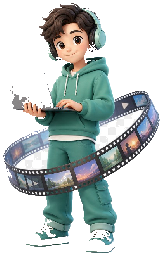
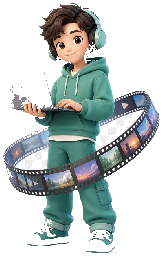
fix(mp+web): 四身份主题色统一 + 欢迎页卡通女孩图标本地打包
Web 首页/推荐卡/报名行硬编码紫改走 --identity-*；小程序身份图标包内优先、子页按钮随 lq-theme 变色。

diff --git a/灵祺达人履约管理后台/src/index.css b/灵祺达人履约管理后台/src/index.css
@@ -1442,6 +1442,98 @@ html[data-theme='dark'] .app-sidebar__mascot-glow {
   box-shadow: 0 2px 8px -6px var(--identity-shadow-soft);
 }
 
+/* —— 身份色补齐：首页统计 / 快捷入口 / 推荐卡 / 报名行（替换硬编码紫） —— */
+.app-frame .talent-home__stat-card--purple {
+  color: #fff !important;
+  background: var(--identity-hero-gradient) !important;
+  box-shadow: 0 12px 28px -14px var(--identity-shadow-soft) !important;
+}
+
+.app-frame .talent-home__stat-card--blue {
+  color: var(--identity-text) !important;
+  background: linear-gradient(
+    135deg,
+    color-mix(in srgb, var(--identity-primary-light) 18%, #fff) 0%,
+    color-mix(in srgb, var(--identity-primary-light) 38%, #fff) 55%,
+    color-mix(in srgb, var(--identity-primary-light) 52%, #fff) 100%
+  ) !important;
+  border-color: var(--identity-badge-border) !important;
+}
+
+.app-frame .talent-home__stat-card--blue:hover {
+  box-shadow: 0 12px 24px -14px var(--identity-shadow-soft) !important;
+}
+
+.app-frame .talent-home__quick-card--purple {
+  color: #fff !important;
+  background: var(--identity-hero-gradient) !important;
+  box-shadow: 0 10px 24px -14px var(--identity-shadow-soft) !important;
+}
+
+.app-frame .talent-home__quick-card--blue {
+  color: var(--identity-text) !important;
+  background: linear-gradient(
+    145deg,
+    color-mix(in srgb, var(--identity-primary-light) 16%, #fff) 0%,
+    color-mix(in srgb, var(--identity-primary-light) 34%, #fff) 50%,
+    color-mix(in srgb, var(--identity-primary-light) 48%, #fff) 100%
+  ) !important;
+  border-color: var(--identity-badge-border) !important;
+}
+
+.app-frame .talent-home__quick-card--blue .talent-home__quick-icon {
+  color: var(--identity-primary) !important;
+}
+
+.app-frame .talent-home__quick-btn {
+  color: var(--identity-text) !important;
+}
+
+.app-frame .talent-home__quick-btn--blue {
+  color: var(--identity-primary-dark) !important;
+}
+
+.app-frame .recommend-order-card__tag {
+  color: var(--identity-badge-text) !important;
+  background: var(--identity-badge-bg) !important;
+}
+
+.app-frame .recommend-order-card__match-head strong {
+  color: var(--identity-text) !important;
+}
+
+.app-frame .recommend-order-card__match-fill {
+  background: var(--identity-hero-gradient) !important;
+}
+
+.app-frame .talent-home__order-budget {
+  color: var(--identity-text) !important;
+}
+
+.app-frame .talent-home__order-apply:not(.talent-home__order-apply--outline) {
+  color: var(--identity-badge-text) !important;
+  background: var(--identity-badge-bg) !important;
+  border-color: var(--identity-badge-border) !important;
+}
+
+.app-frame .talent-home__order-apply:not(.talent-home__order-apply--outline):hover {
+  background: var(--identity-tint-mid) !important;
+}
+
+.app-frame .hall-order-card:hover {
+  border-color: var(--identity-badge-border) !important;
+  box-shadow: 0 12px 28px -16px var(--identity-shadow-soft) !important;
+}
+
+.app-frame .hall-order-card__cover-ph {
+  background: linear-gradient(135deg, var(--identity-tint) 0%, var(--identity-tint-mid) 100%) !important;
+}
+
+.app-frame .dash-stat-card__icon--purple {
+  color: var(--identity-primary) !important;
+  background: var(--identity-badge-bg) !important;
+}
+
 .app-main-wrap {
   flex: 1;
   min-width: 0;

diff --git a/灵祺达人撮合小程序/pages/welcome/welcome.js b/灵祺达人撮合小程序/pages/welcome/welcome.js
@@ -68,10 +68,13 @@ Page({
   onIdentityIconError(e) {
     const id = String((e.currentTarget && e.currentTarget.dataset && e.currentTarget.dataset.id) || '')
     if (!id) return
+    const { loginIdentityIconCdnFallback } = require('../../utils/loginIdentityIcons.js')
+    const cdnUrl = loginIdentityIconCdnFallback(id)
     const ossUrl = mpCdnAssets.ossAssetUrl(`identity/identity-${id}.png`)
-    if (!ossUrl) return
+    const fallback = cdnUrl !== (this.data.identityOptions || []).find((x) => x && x.id === id)?.icon ? cdnUrl : ossUrl
+    if (!fallback) return
     const opts = (this.data.identityOptions || []).map((item) =>
-      item && item.id === id && item.icon !== ossUrl ? { ...item, icon: ossUrl } : item,
+      item && item.id === id && item.icon !== fallback ? { ...item, icon: fallback } : item,
     )
     this.setData({ identityOptions: opts })
   },

diff --git a/灵祺达人撮合小程序/utils/loginIdentityIcons.js b/灵祺达人撮合小程序/utils/loginIdentityIcons.js
@@ -1,7 +1,18 @@
-/** 欢迎/登录页身份图标 · 走 CDN/OSS（包内 images/identity 已 pack ignore） */
+/** 欢迎/登录页身份图标：包内卡通图优先，CDN/OSS 作回退 */
 const mpCdnAssets = require('./mpCdnAssets.js')
 
+const LOCAL_IDENTITY_ICON = {
+  talent: '/images/identity/identity-talent.png',
+  shoot: '/images/identity/identity-shoot.png',
+  edit: '/images/identity/identity-edit.png',
+  pr: '/images/identity/identity-pr.png',
+}
+
 function loginIdentityIcon(id) {
+  return LOCAL_IDENTITY_ICON[id] || mpCdnAssets.identityIcon(id)
+}
+
+function loginIdentityIconCdnFallback(id) {
   return mpCdnAssets.identityIcon(id)
 }
 
@@ -14,5 +25,6 @@ function attachLoginIdentityIcons(options) {
 
 module.exports = {
   loginIdentityIcon,
+  loginIdentityIconCdnFallback,
   attachLoginIdentityIcons,
 }

diff --git a/灵祺达人撮合小程序/pages/detail/detail.js b/灵祺达人撮合小程序/pages/detail/detail.js
@@ -135,10 +135,6 @@ Page({
     benefitsText: '',
     detailCategoryTags: [],
   },
-  onShow() {
-    const id = this.data.id
-    if (id) this.setData({ isFavorited: orderFavorites.isFavorite(id) })
-  },
   onToggleFavorite() {
     const id = this.data.id
     if (!id) return
@@ -168,6 +164,9 @@ Page({
     else this.setData({ loading: false, err: '缺少招募单号' })
   },
   onShow() {
+    require('../../utils/pageIdentityChrome.js').syncPageIdentity(this)
+    const id = this.data.id
+    if (id) this.setData({ isFavorited: orderFavorites.isFavorite(id) })
     const mpShare = require('../../utils/mpShare.js')
     mpShare.enableShareMenu()
     this.setData({ isPr: userProfile.readIdentity() === 'pr' })

diff --git a/灵祺达人撮合小程序/utils/config.release.js b/灵祺达人撮合小程序/utils/config.release.js
@@ -19,7 +19,7 @@ module.exports = {
   /** 真机优先 mofangdianai.com 静态图；OSS 仅作备份 */
   MP_COVER_PREFER_CDN: true,
   /** 远程图缓存版本（改图后 bump，避免微信缓存旧 JPEG） */
-  MP_ASSET_CACHE_VER: '20260614d',
+  MP_ASSET_CACHE_VER: '20260614e',
   /** 小程序封面图库：OSS 公网 URL（upload-mp-recruit-covers-oss.js 写入 recruitCoverOssBase.js） */
   MP_COVER_USE_BUNDLE: false,
   /** 群聊复制文案 #小程序:// 名称，须与微信公众平台小程序昵称一致 */
